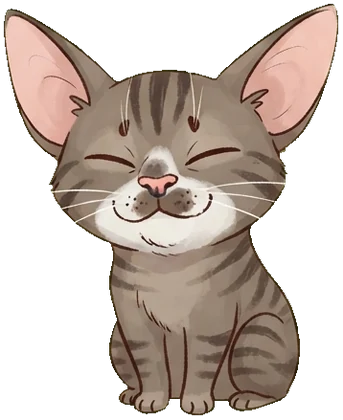
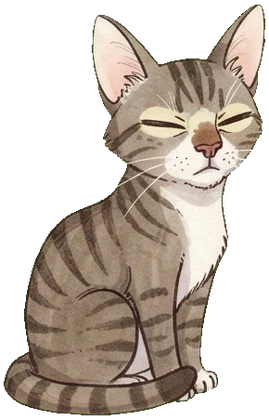
Altarcito: Feluchis redibujada, más parecida a su foto

diff --git a/js/arte-img.js b/js/arte-img.js
@@ -1,3 +1,3 @@
 /* Lo genera sprites.py: id: [ancho, alto, 1 si se puede pintar]. */
-window.ARTE_IMG = {"estrella":[241,225,1],"caracoles":[246,152,1],"protector":[146,266,1],"lentes":[272,102,1],"librito":[271,200,1],"voley":[248,247,1],"mate":[205,311,1],"corona":[274,175,1],"toalla":[340,189,1],"reposera":[261,283,1],"heladerita":[238,214,1],"tabla":[210,333,1],"birra":[102,320,1],"dados":[262,197,1],"cuchillo":[290,59,1],"calavera":[204,215,1],"tulio":[329,225,0],"tony":[420,319,0],"feluchis":[343,420,0],"pompi":[213,420,0],"renu":[231,304,0],"leda":[281,304,0],"liebre":[194,340,0],"zorrito":[254,309,0],"sandia":[246,174,0],"futbol":[287,287,0],"basquet":[288,289,0],"puchos":[186,297,0],"naipes":[302,240,0],"porro":[270,138,0],"vino":[92,340,0],"heineken":[113,211,0],"marihuana":[164,288,0],"caipirinha":[274,207,0],"guitarra":[256,270,0],"ps5":[148,248,0],"fogata":[229,202,0],"rabas":[269,158,0],"papas":[211,181,0],"antorchas":[135,280,0],"reposeraarg":[290,317,1],"buzo":[306,324,1],"tejos":[292,150,1],"salvavidas":[308,310,1],"sombrero":[319,176,1],"neoprene":[182,340,1],"moto":[434,204,1],"kayak":[412,230,1],"sombrilla":[368,383,1],"carpa":[386,428,1],"mangrullo":[199,400,0],"yate":[447,200,0],"lobo":[406,173,0],"estudiantes":[406,173,0],"ballena":[296,214,0],"delfin":[281,242,0],"delfinrosa":[251,275,0],"sirena":[160,390,0],"cartel":[251,319,0],"fondo":[928,1152,0]};
-window.ARTE_IMG_V = 2;
+window.ARTE_IMG = {"estrella":[241,225,1],"caracoles":[246,152,1],"protector":[146,266,1],"lentes":[272,102,1],"librito":[271,200,1],"voley":[248,247,1],"mate":[205,311,1],"corona":[274,175,1],"toalla":[340,189,1],"reposera":[261,283,1],"heladerita":[238,214,1],"tabla":[210,333,1],"birra":[102,320,1],"dados":[262,197,1],"cuchillo":[290,59,1],"calavera":[204,215,1],"tulio":[329,225,0],"tony":[420,319,0],"feluchis":[269,420,0],"pompi":[213,420,0],"renu":[231,304,0],"leda":[281,304,0],"liebre":[194,340,0],"zorrito":[254,309,0],"sandia":[246,174,0],"futbol":[287,287,0],"basquet":[288,289,0],"puchos":[186,297,0],"naipes":[302,240,0],"porro":[270,138,0],"vino":[92,340,0],"heineken":[113,211,0],"marihuana":[164,288,0],"caipirinha":[274,207,0],"guitarra":[256,270,0],"ps5":[148,248,0],"fogata":[229,202,0],"rabas":[269,158,0],"papas":[211,181,0],"antorchas":[135,280,0],"reposeraarg":[290,317,1],"buzo":[306,324,1],"tejos":[292,150,1],"salvavidas":[308,310,1],"sombrero":[319,176,1],"neoprene":[182,340,1],"moto":[434,204,1],"kayak":[412,230,1],"sombrilla":[368,383,1],"carpa":[386,428,1],"mangrullo":[199,400,0],"yate":[447,200,0],"lobo":[406,173,0],"estudiantes":[406,173,0],"ballena":[296,214,0],"delfin":[281,242,0],"delfinrosa":[251,275,0],"sirena":[160,390,0],"cartel":[251,319,0],"fondo":[928,1152,0]};
+window.ARTE_IMG_V = 3;

diff --git a/js/arte.js b/js/arte.js
@@ -286,7 +286,7 @@ window.ARTE = (function () {
     delfin: 80, delfinrosa: 80, sombrero: 64, rabas: 70, papas: 64, neoprene: 100, antorchas: 112 })
     .forEach(([id, m]) => { ITEMS[id] = [m, m, null]; });
   // Con el arte nuevo cambian las proporciones: estos usan otro lado mayor que su dibujo viejo.
-  const LADO = { carpa: 172, sombrilla: 140, tony: 88 };
+  const LADO = { carpa: 172, sombrilla: 140, tony: 88, feluchis: 84 };
 
   // Cartelito con el nombre del altar (no se compra).
   // Arte hecho con IA (img/altar). Si una cosa no lo tiene, se usa su dibujo en SVG.

diff --git a/sw.js b/sw.js
@@ -1,6 +1,6 @@
 /* Colonia: primero la red (para tener siempre la última versión), y si no hay señal, lo guardado.
    GitHub Pages manda los archivos con "guardalo 10 minutos": por eso se pide con no-cache (pregunta al servidor si cambió). */
-const CACHE = 'colonia-v8';
+const CACHE = 'colonia-v9';
 const SHELL = ['./', 'index.html', 'css/app.css', 'js/config.js', 'js/data.js', 'js/sky.js', 'js/arte-img.js', 'js/arte.js', 'js/sonido.js', 'js/store.js', 'js/app.js', 'manifest.webmanifest', 'icons/icon-192.png'];
 
 self.addEventListener('install', (e) => {
